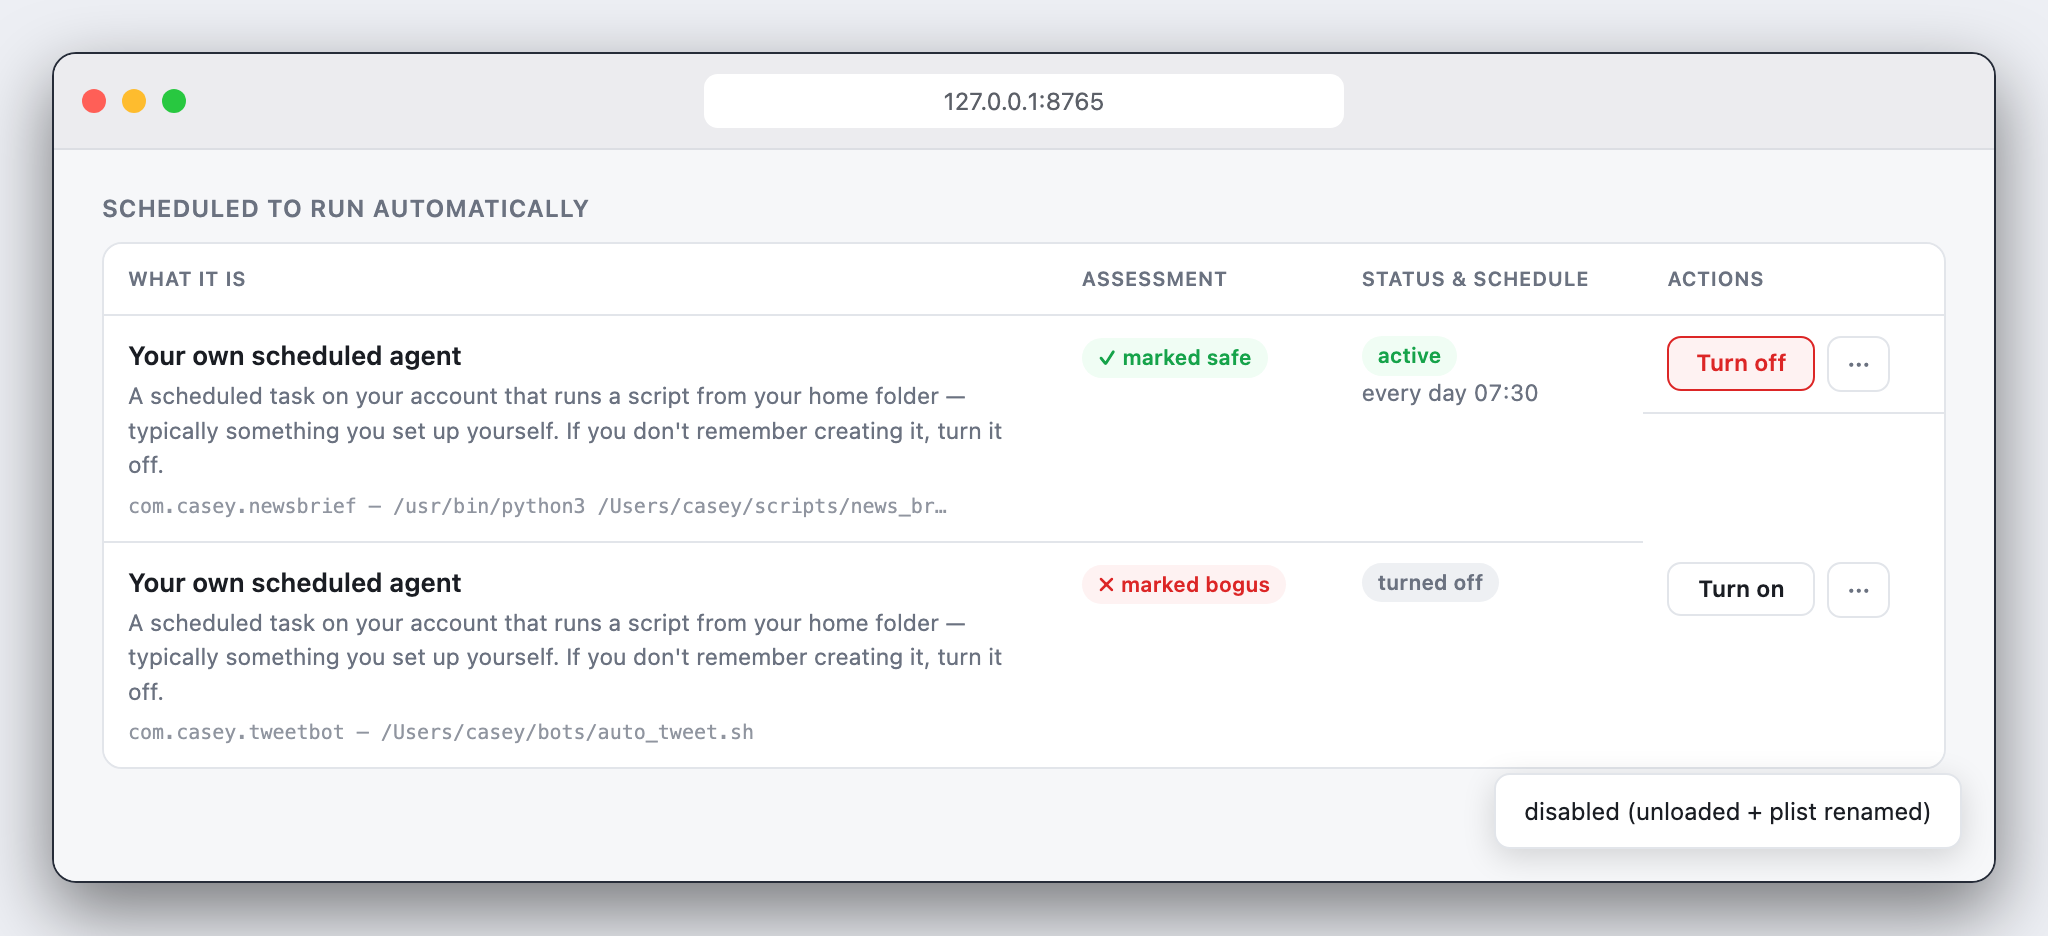
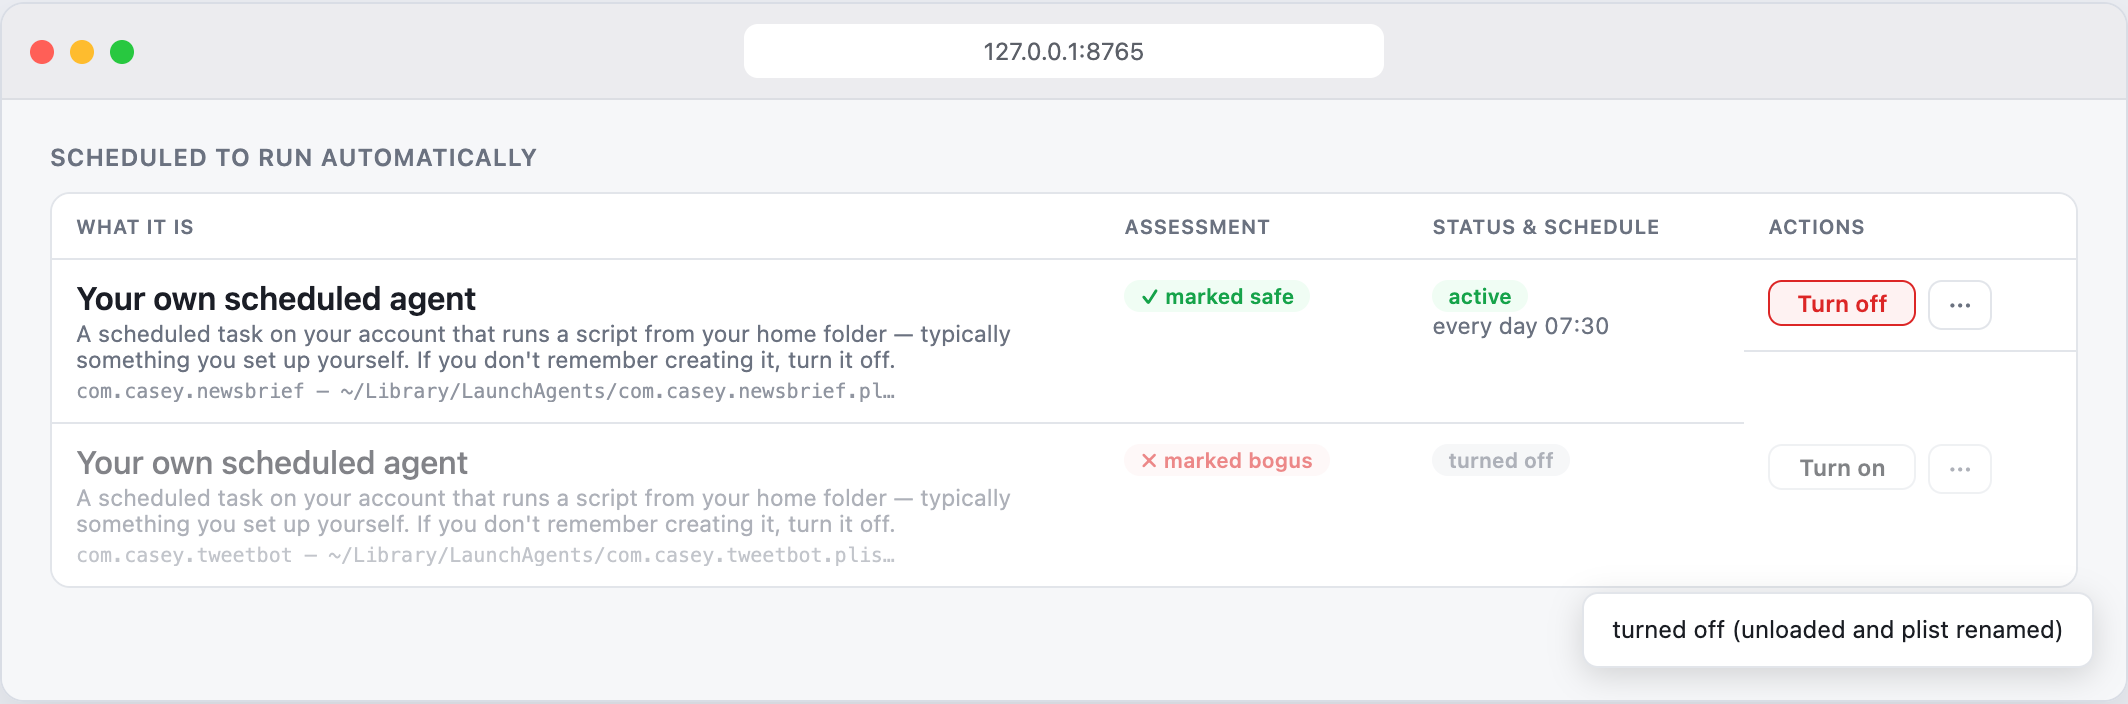
Recapture all nine screenshots for the current interface
The mockups now show the restarted-by warning, an app-registered
background item, plist paths in the technical line, dimmed switched-off
rows, and the updated Stop confirmation and turn-off toast wording.

diff --git a/README.md b/README.md
@@ -6,8 +6,6 @@ don't want.
 
 ![The dashboard: summary cards along the top, then a table of running processes. Each row has a name, a description, an assessment badge, memory and CPU figures, and a Stop button.](docs/screenshots/01-overview.png)
 
-> Every screenshot here uses made-up data. None of it came off a real machine.
-
 ## Why I built it
 
 I set up a small agent one evening to watch rental listings for a new home,
@@ -138,7 +136,7 @@ you can be fairly relaxed about it.
 
 Your own verdicts override the automatic ones, and actions report back:
 
-![One agent marked safe, another marked bogus and turned off, with a toast reading "disabled (unloaded + plist renamed)".](docs/screenshots/05-verdict-and-toast.png)
+![One agent marked safe, another marked bogus and turned off, with a toast reading "turned off (unloaded and plist renamed)".](docs/screenshots/05-verdict-and-toast.png)
 
 Cron jobs are treated the same way:
 
